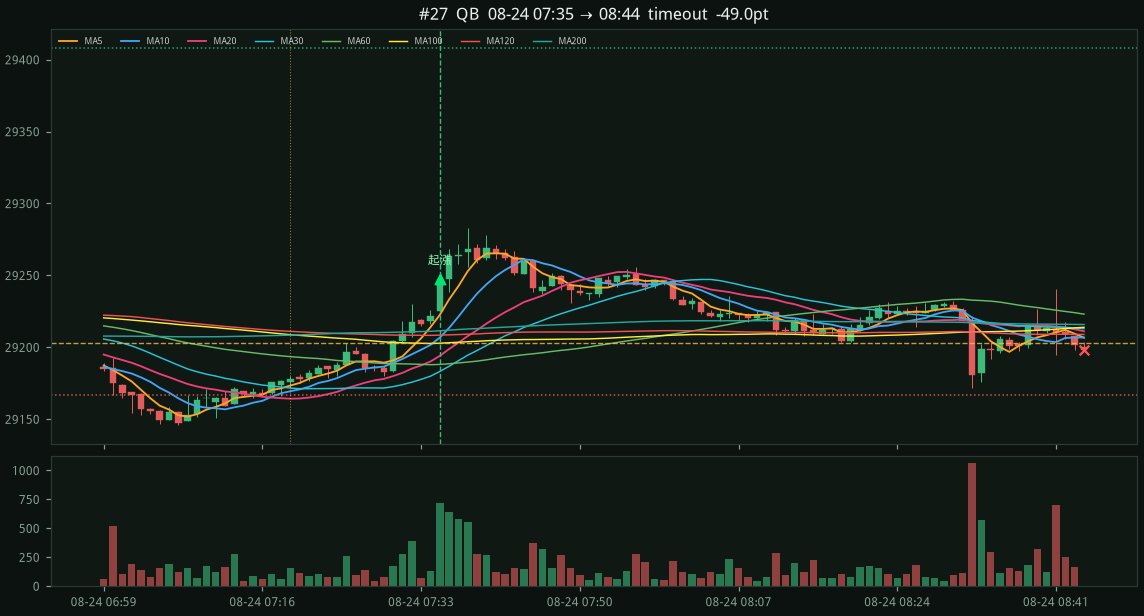
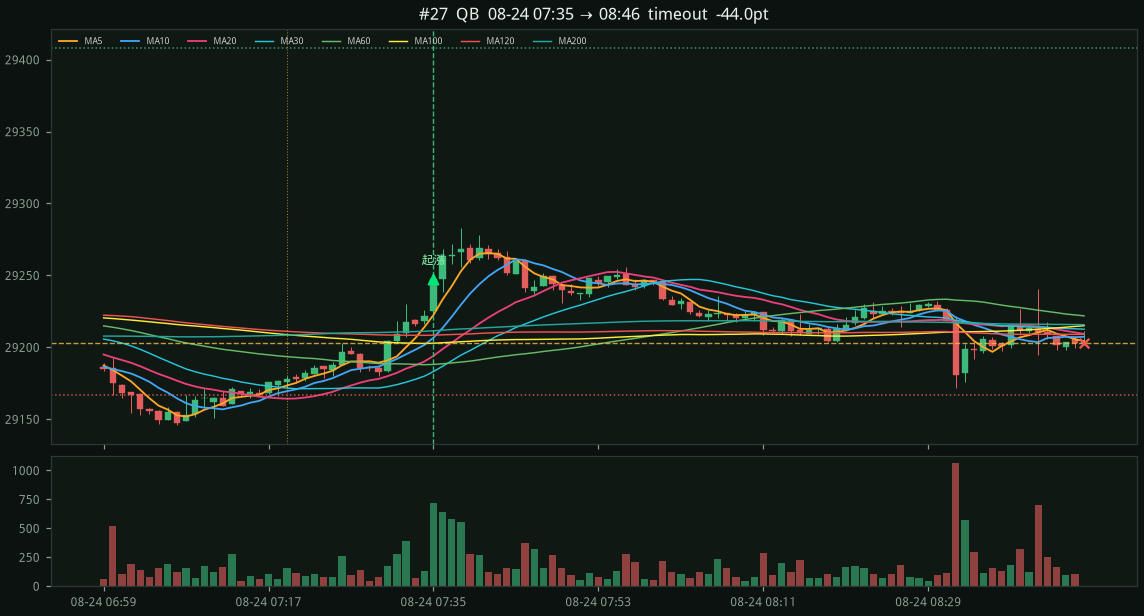
Refresh the 10-day sticky-coil backtest HTML.
27 trades, 48.1% win rate, about -16 points, including the 08-24 07:35 chart.

Changed region(s): [[0.0918, 0.0617, 0.9484, 0.7094], [0.1224, 0.7403, 0.9484, 0.987], [0.5507, 0.0, 0.5813, 0.0308]]

diff --git a/docs/nq-coil-breakout/view.html b/docs/nq-coil-breakout/view.html
@@ -34,16 +34,16 @@ h1{font-size:18px;margin:0 0 6px}
 <section class="summary">
 <h1>NQ=F 起漲點（均線糾結突破）</h1>
 <p class="muted">圖是靜態 1m K 線。手機請往下捲。</p>
-<p class="muted">10d · 2026-08-14 08:55 → 2026-08-24 08:44 · bars=8207 · MA 5, 10, 20, 30, 60, 100, 120, 200</p>
+<p class="muted">10d · 2026-08-14 08:57 → 2026-08-24 08:46 · bars=8207 · MA 5, 10, 20, 30, 60, 100, 120, 200</p>
 <div class="cards">
 <div class="card">筆數<b>27</b></div>
 <div class="card">勝率<b>48.1%</b></div>
-<div class="card">總點數<b class="pnl-loss">-21.0</b></div>
+<div class="card">總點數<b class="pnl-loss">-16.0</b></div>
 <div class="card">勝/負<b>13/14</b></div>
 </div>
-<p class="muted">QA 22筆 +67.2 · QB 3筆 -47.0 · QC 2筆 -41.2</p>
-<p class='muted'>漏斗：檢查 6819 → 盤整箱 2764 → 等待突破 3230 → 長實體 123 → 站上盤整 481 → 站上均線 525 → 放量 448 → 進場 27</p>
-<div class="equity"><svg viewBox="0 0 720 180" width="100%" style="background:#0f172a;border-radius:8px"><line x1="0" y1="67.0" x2="720" y2="67.0" stroke="#334155" stroke-dasharray="4 4"/><polyline fill="none" stroke="#dc2626" stroke-width="2" points="0.0,67.0 26.7,52.3 53.3,30.9 80.0,29.4 106.7,17.4 133.3,40.0 160.0,55.1 186.7,73.9 213.3,100.4 240.0,122.3 266.7,140.5 293.3,162.6 320.0,118.8 346.7,74.8 373.3,50.3 400.0,73.9 426.7,73.9 453.3,88.2 480.0,88.2 506.7,84.2 533.3,79.3 560.0,79.3 586.7,52.7 613.3,50.2 640.0,44.1 666.7,40.3 693.3,54.7 720.0,76.3"/></svg></div>
+<p class="muted">QA 22筆 +67.2 · QB 3筆 -42.0 · QC 2筆 -41.2</p>
+<p class='muted'>漏斗：檢查 6819 → 盤整箱 2764 → 等待突破 3230 → 長實體 123 → 站上盤整 481 → 站上均線 525 → 放量 446 → 進場 27</p>
+<div class="equity"><svg viewBox="0 0 720 180" width="100%" style="background:#0f172a;border-radius:8px"><line x1="0" y1="67.0" x2="720" y2="67.0" stroke="#334155" stroke-dasharray="4 4"/><polyline fill="none" stroke="#dc2626" stroke-width="2" points="0.0,67.0 26.7,52.3 53.3,30.9 80.0,29.4 106.7,17.4 133.3,40.0 160.0,55.1 186.7,73.9 213.3,100.4 240.0,122.3 266.7,140.5 293.3,162.6 320.0,118.8 346.7,74.8 373.3,50.3 400.0,73.9 426.7,73.9 453.3,88.2 480.0,88.2 506.7,84.2 533.3,79.3 560.0,79.3 586.7,52.7 613.3,50.2 640.0,44.1 666.7,40.3 693.3,54.7 720.0,74.1"/></svg></div>
 </section>
 <article class='trade-card'><header class='card-header'><div class='card-title'><span class='trade-no'>#1 · QA</span><span class='trade-time'>2026-08-14 14:50 → 08-14 16:20</span></div><div class='card-pnl pnl-win'>+33.5 pts</div></header><div class='tags'><span class='tag tag-time'>timeout</span><span class='tag tag-info'>起漲</span><span class='tag tag-info'>QA</span></div><pre class='trade-detail'>entry 30098.25
 stop  30068.50  (−29.8 pts)
@@ -175,10 +175,10 @@ stop  29199.25  (−32.8 pts)
 target 29297.50  (2.0R)
 exit  29199.25  stop
 盤整 29204.25–29223.75  區間 19.5  帶寬 23.2
-量能 3.40x  實體 10.8  前回檔 78.0</pre><div class='mini-chart'><img src='img/t26_0824_0624_qa.png' alt='#26' style='width:100%;display:block;border-radius:10px'/></div></article><article class='trade-card'><header class='card-header'><div class='card-title'><span class='trade-no'>#27 · QB</span><span class='trade-time'>2026-08-24 07:35 → 08-24 08:44</span></div><div class='card-pnl pnl-loss'>-49.0 pts</div></header><div class='tags'><span class='tag tag-time'>timeout</span><span class='tag tag-info'>起漲</span><span class='tag tag-info'>QB</span></div><pre class='trade-detail'>entry 29247.25
+量能 3.40x  實體 10.8  前回檔 78.0</pre><div class='mini-chart'><img src='img/t26_0824_0624_qa.png' alt='#26' style='width:100%;display:block;border-radius:10px'/></div></article><article class='trade-card'><header class='card-header'><div class='card-title'><span class='trade-no'>#27 · QB</span><span class='trade-time'>2026-08-24 07:35 → 08-24 08:46</span></div><div class='card-pnl pnl-loss'>-44.0 pts</div></header><div class='tags'><span class='tag tag-time'>timeout</span><span class='tag tag-info'>起漲</span><span class='tag tag-info'>QB</span></div><pre class='trade-detail'>entry 29247.25
 stop  29166.75  (−80.5 pts)
 target 29408.25  (2.0R)
-exit  29198.25  timeout
+exit  29203.25  timeout
 盤整 29171.75–29203.00  區間 31.2  帶寬 38.5
 量能 7.79x  實體 21.8  前回檔 104.0</pre><div class='mini-chart'><img src='img/t27_0824_0735_qb.png' alt='#27' style='width:100%;display:block;border-radius:10px'/></div></article>
 </div>

diff --git a/docs/nq-coil-breakout/index.html b/docs/nq-coil-breakout/index.html
@@ -33,16 +33,16 @@ h1{font-size:18px;margin:0 0 6px}
 <div class="page">
 <section class="summary">
 <h1>NQ=F 起漲點（均線糾結突破）</h1>
-<p class="muted">10d · 2026-08-14 08:55 → 2026-08-24 08:44 · bars=8207 · MA 5, 10, 20, 30, 60, 100, 120, 200</p>
+<p class="muted">10d · 2026-08-14 08:57 → 2026-08-24 08:46 · bars=8207 · MA 5, 10, 20, 30, 60, 100, 120, 200</p>
 <div class="cards">
 <div class="card">筆數<b>27</b></div>
 <div class="card">勝率<b>48.1%</b></div>
-<div class="card">總點數<b class="pnl-loss">-21.0</b></div>
+<div class="card">總點數<b class="pnl-loss">-16.0</b></div>
 <div class="card">勝/負<b>13/14</b></div>
 </div>
-<p class="muted">QA 22筆 +67.2 · QB 3筆 -47.0 · QC 2筆 -41.2</p>
-<p class='muted'>漏斗：檢查 6819 → 盤整箱 2764 → 等待突破 3230 → 長實體 123 → 站上盤整 481 → 站上均線 525 → 放量 448 → 進場 27</p>
-<div class="equity"><svg viewBox="0 0 720 180" width="100%" style="background:#0f172a;border-radius:8px"><line x1="0" y1="67.0" x2="720" y2="67.0" stroke="#334155" stroke-dasharray="4 4"/><polyline fill="none" stroke="#dc2626" stroke-width="2" points="0.0,67.0 26.7,52.3 53.3,30.9 80.0,29.4 106.7,17.4 133.3,40.0 160.0,55.1 186.7,73.9 213.3,100.4 240.0,122.3 266.7,140.5 293.3,162.6 320.0,118.8 346.7,74.8 373.3,50.3 400.0,73.9 426.7,73.9 453.3,88.2 480.0,88.2 506.7,84.2 533.3,79.3 560.0,79.3 586.7,52.7 613.3,50.2 640.0,44.1 666.7,40.3 693.3,54.7 720.0,76.3"/></svg></div>
+<p class="muted">QA 22筆 +67.2 · QB 3筆 -42.0 · QC 2筆 -41.2</p>
+<p class='muted'>漏斗：檢查 6819 → 盤整箱 2764 → 等待突破 3230 → 長實體 123 → 站上盤整 481 → 站上均線 525 → 放量 446 → 進場 27</p>
+<div class="equity"><svg viewBox="0 0 720 180" width="100%" style="background:#0f172a;border-radius:8px"><line x1="0" y1="67.0" x2="720" y2="67.0" stroke="#334155" stroke-dasharray="4 4"/><polyline fill="none" stroke="#dc2626" stroke-width="2" points="0.0,67.0 26.7,52.3 53.3,30.9 80.0,29.4 106.7,17.4 133.3,40.0 160.0,55.1 186.7,73.9 213.3,100.4 240.0,122.3 266.7,140.5 293.3,162.6 320.0,118.8 346.7,74.8 373.3,50.3 400.0,73.9 426.7,73.9 453.3,88.2 480.0,88.2 506.7,84.2 533.3,79.3 560.0,79.3 586.7,52.7 613.3,50.2 640.0,44.1 666.7,40.3 693.3,54.7 720.0,74.1"/></svg></div>
 </section>
 <article class='trade-card'><header class='card-header'><div class='card-title'><span class='trade-no'>#1 · QA</span><span class='trade-time'>2026-08-14 14:50 → 08-14 16:20</span></div><div class='card-pnl pnl-win'>+33.5 pts</div></header><div class='tags'><span class='tag tag-time'>timeout</span><span class='tag tag-info'>起漲</span><span class='tag tag-info'>QA</span></div><pre class='trade-detail'>entry 30098.25
 stop  30068.50  (−29.8 pts)
@@ -174,10 +174,10 @@ stop  29199.25  (−32.8 pts)
 target 29297.50  (2.0R)
 exit  29199.25  stop
 盤整 29204.25–29223.75  區間 19.5  帶寬 23.2
-量能 3.40x  實體 10.8  前回檔 78.0</pre><div class='mini-chart'><img src='img/t26_0824_0624_qa.png' alt='#26' style='width:100%;display:block;border-radius:10px'/></div></article><article class='trade-card'><header class='card-header'><div class='card-title'><span class='trade-no'>#27 · QB</span><span class='trade-time'>2026-08-24 07:35 → 08-24 08:44</span></div><div class='card-pnl pnl-loss'>-49.0 pts</div></header><div class='tags'><span class='tag tag-time'>timeout</span><span class='tag tag-info'>起漲</span><span class='tag tag-info'>QB</span></div><pre class='trade-detail'>entry 29247.25
+量能 3.40x  實體 10.8  前回檔 78.0</pre><div class='mini-chart'><img src='img/t26_0824_0624_qa.png' alt='#26' style='width:100%;display:block;border-radius:10px'/></div></article><article class='trade-card'><header class='card-header'><div class='card-title'><span class='trade-no'>#27 · QB</span><span class='trade-time'>2026-08-24 07:35 → 08-24 08:46</span></div><div class='card-pnl pnl-loss'>-44.0 pts</div></header><div class='tags'><span class='tag tag-time'>timeout</span><span class='tag tag-info'>起漲</span><span class='tag tag-info'>QB</span></div><pre class='trade-detail'>entry 29247.25
 stop  29166.75  (−80.5 pts)
 target 29408.25  (2.0R)
-exit  29198.25  timeout
+exit  29203.25  timeout
 盤整 29171.75–29203.00  區間 31.2  帶寬 38.5
 量能 7.79x  實體 21.8  前回檔 104.0</pre><div class='mini-chart'><img src='img/t27_0824_0735_qb.png' alt='#27' style='width:100%;display:block;border-radius:10px'/></div></article>
 </div>
